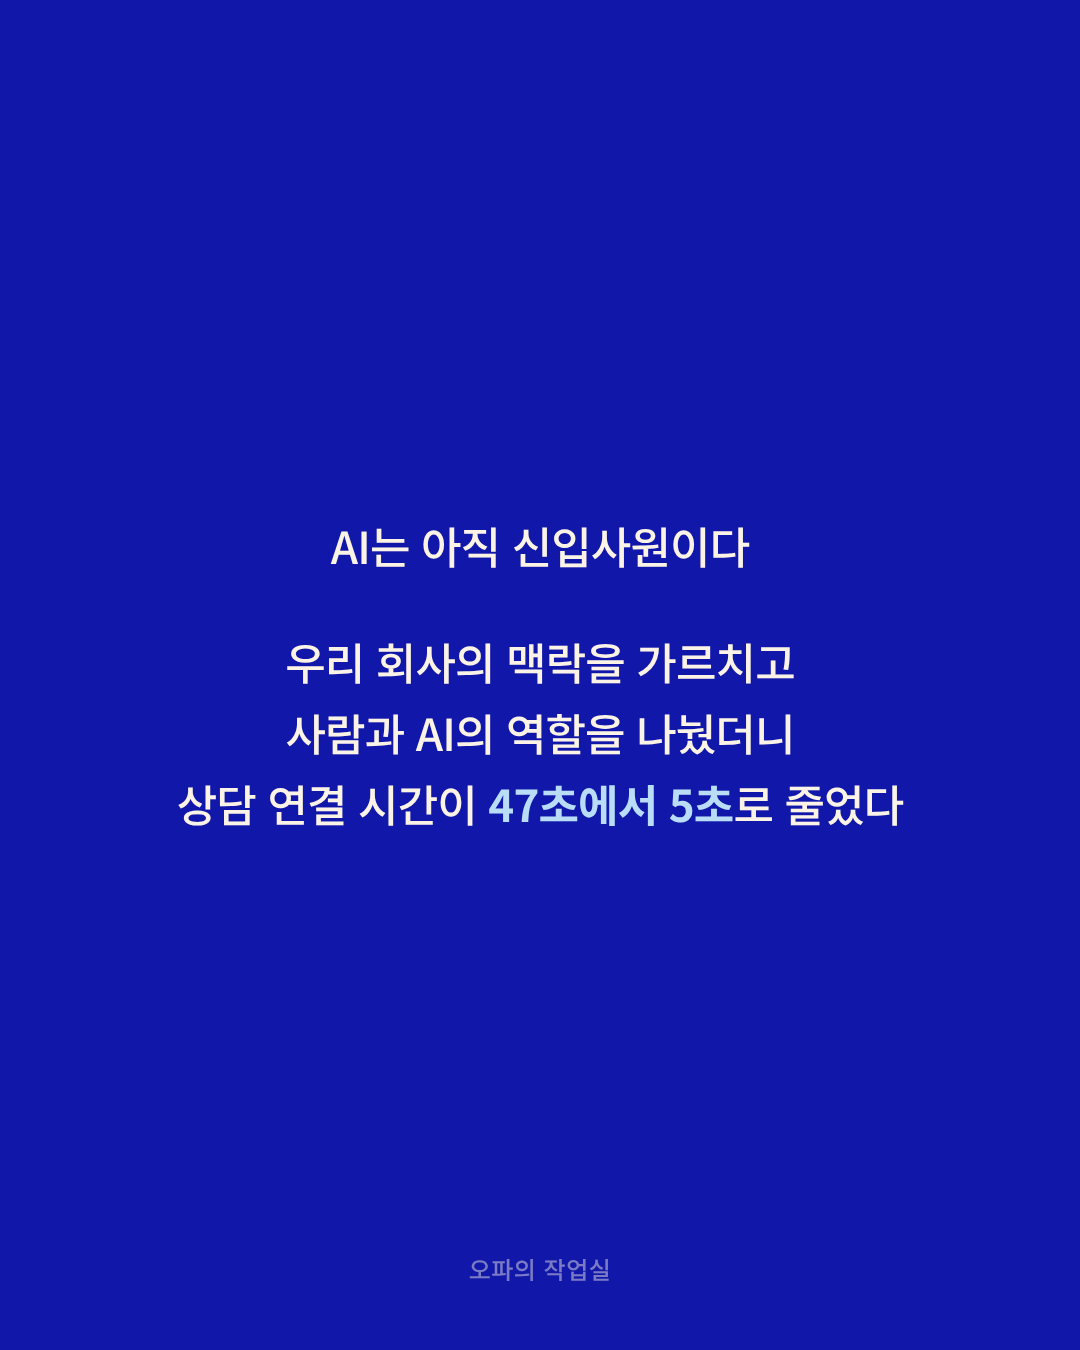
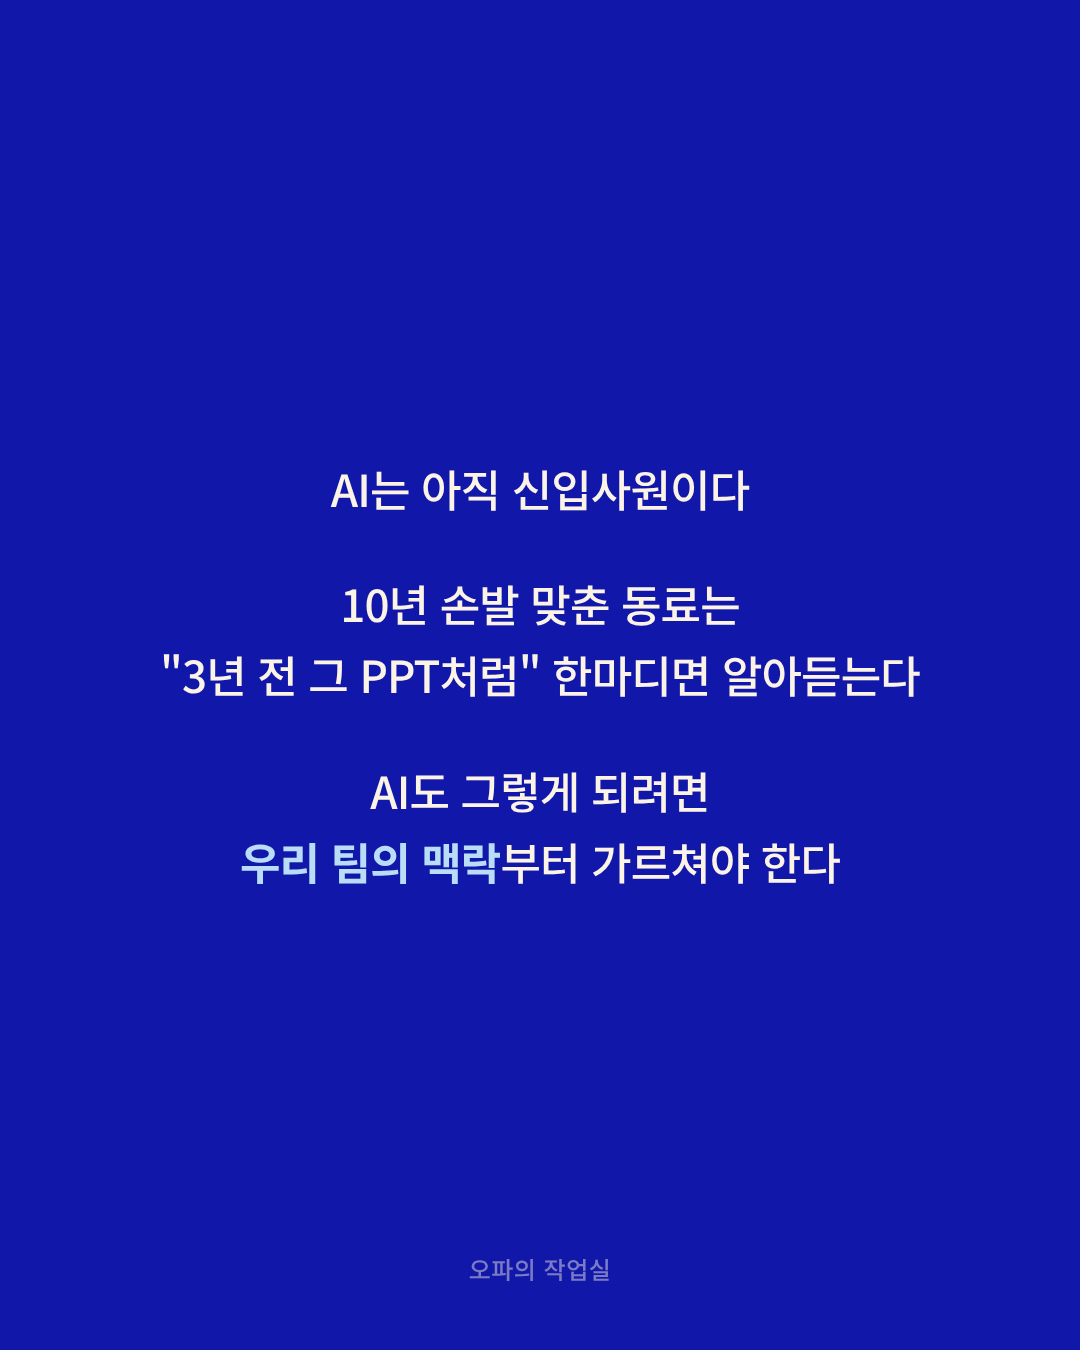
텍스트 카드 4장: 통신사 상담 사례를 '신입사원 AI' 비유로 교체
Claude-Session: https://claude.ai/code/session_016hvv34jPWo253fQY5tLEVV

Changed region(s): [[0.1528, 0.3422, 0.8556, 0.6533]]

diff --git a/cardnews/trend-korea-2027/text/text.html b/cardnews/trend-korea-2027/text/text.html
@@ -14,7 +14,7 @@ em { font-style: normal; color: #B9DCF7; font-weight: 700; }
 <section class="card" id="c1"><div class="txt"><p>트렌드 코리아 2027 키워드에는<br>'AI'가 없다</p><p>1년 만에 AI가 전기처럼<br>당연한 것이 됐기 때문이다</p></div><div class="foot">오파의 작업실</div></section>
 <section class="card" id="c2"><div class="txt"><p>그래서 올해의 질문이 바뀌었다</p><p>AI를 쓰느냐가 아니라<br>AI 때문에 달라진 일, 인생, 감각을<br>어떻게 다루느냐</p></div><div class="foot">오파의 작업실</div></section>
 <section class="card" id="c3"><div class="txt"><p><em>바이브 워킹</em></p><p>AI로 보고서는 이틀에서 반나절이 됐는데<br>팀 프로젝트는 여전히 3개월이다</p><p>병목은 AI가 아니라<br>일하는 방식에 있다</p></div><div class="foot">오파의 작업실</div></section>
-<section class="card" id="c4"><div class="txt"><p>AI는 아직 신입사원이다</p><p>우리 회사의 맥락을 가르치고<br>사람과 AI의 역할을 나눴더니<br>상담 연결 시간이 <em>47초에서 5초</em>로 줄었다</p></div><div class="foot">오파의 작업실</div></section>
+<section class="card" id="c4"><div class="txt"><p>AI는 아직 신입사원이다</p><p>10년 손발 맞춘 동료는<br>"3년 전 그 PPT처럼" 한마디면 알아듣는다</p><p>AI도 그렇게 되려면<br><em>우리 팀의 맥락</em>부터 가르쳐야 한다</p></div><div class="foot">오파의 작업실</div></section>
 <section class="card" id="c5"><div class="txt"><p>우수 사례 경진대회보다<br>실패 사례를 모으는 팀이 더 빨리 배운다</p><p>"이렇게 썼더니 망했다"는<br>누구나 신나게 공유하기 때문이다</p></div><div class="foot">오파의 작업실</div></section>
 <section class="card" id="c6"><div class="txt"><p><em>하프시그널</em></p><p>갱년기는 끝이 아니라<br>인생 후반전을 알리는 하프타임이다</p><p>X세대는 참지 않고<br>말하고, 소비하고, 준비한다</p></div><div class="foot">오파의 작업실</div></section>
 <section class="card" id="c7"><div class="txt"><p>이제 갱년기는 집이 아니라<br>일터의 문제이기도 하다</p><p>이케아는 갱년기 동료 배려 매뉴얼을 만들었고<br>노무라는 갱년기 유급휴가를 준다</p></div><div class="foot">오파의 작업실</div></section>

diff --git a/cardnews/trend-korea-2027/text/build.py b/cardnews/trend-korea-2027/text/build.py
@@ -6,7 +6,7 @@ SLIDES = [
     ["트렌드 코리아 2027 키워드에는\n'AI'가 없다", "1년 만에 AI가 전기처럼\n당연한 것이 됐기 때문이다"],
     ["그래서 올해의 질문이 바뀌었다", "AI를 쓰느냐가 아니라\nAI 때문에 달라진 일, 인생, 감각을\n어떻게 다루느냐"],
     ["[[바이브 워킹]]", "AI로 보고서는 이틀에서 반나절이 됐는데\n팀 프로젝트는 여전히 3개월이다", "병목은 AI가 아니라\n일하는 방식에 있다"],
-    ["AI는 아직 신입사원이다", "우리 회사의 맥락을 가르치고\n사람과 AI의 역할을 나눴더니\n상담 연결 시간이 [[47초에서 5초]]로 줄었다"],
+    ["AI는 아직 신입사원이다", "10년 손발 맞춘 동료는\n\"3년 전 그 PPT처럼\" 한마디면 알아듣는다", "AI도 그렇게 되려면\n[[우리 팀의 맥락]]부터 가르쳐야 한다"],
     ["우수 사례 경진대회보다\n실패 사례를 모으는 팀이 더 빨리 배운다", "\"이렇게 썼더니 망했다\"는\n누구나 신나게 공유하기 때문이다"],
     ["[[하프시그널]]", "갱년기는 끝이 아니라\n인생 후반전을 알리는 하프타임이다", "X세대는 참지 않고\n말하고, 소비하고, 준비한다"],
     ["이제 갱년기는 집이 아니라\n일터의 문제이기도 하다", "이케아는 갱년기 동료 배려 매뉴얼을 만들었고\n노무라는 갱년기 유급휴가를 준다"],
